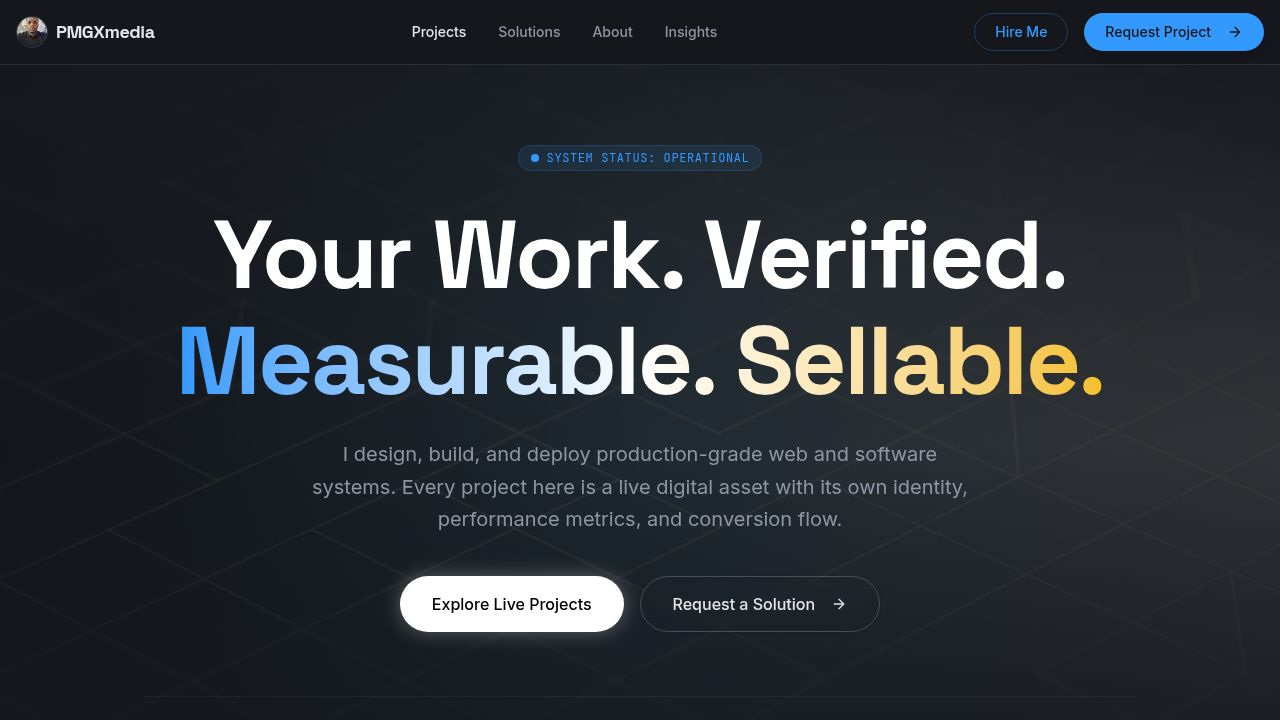
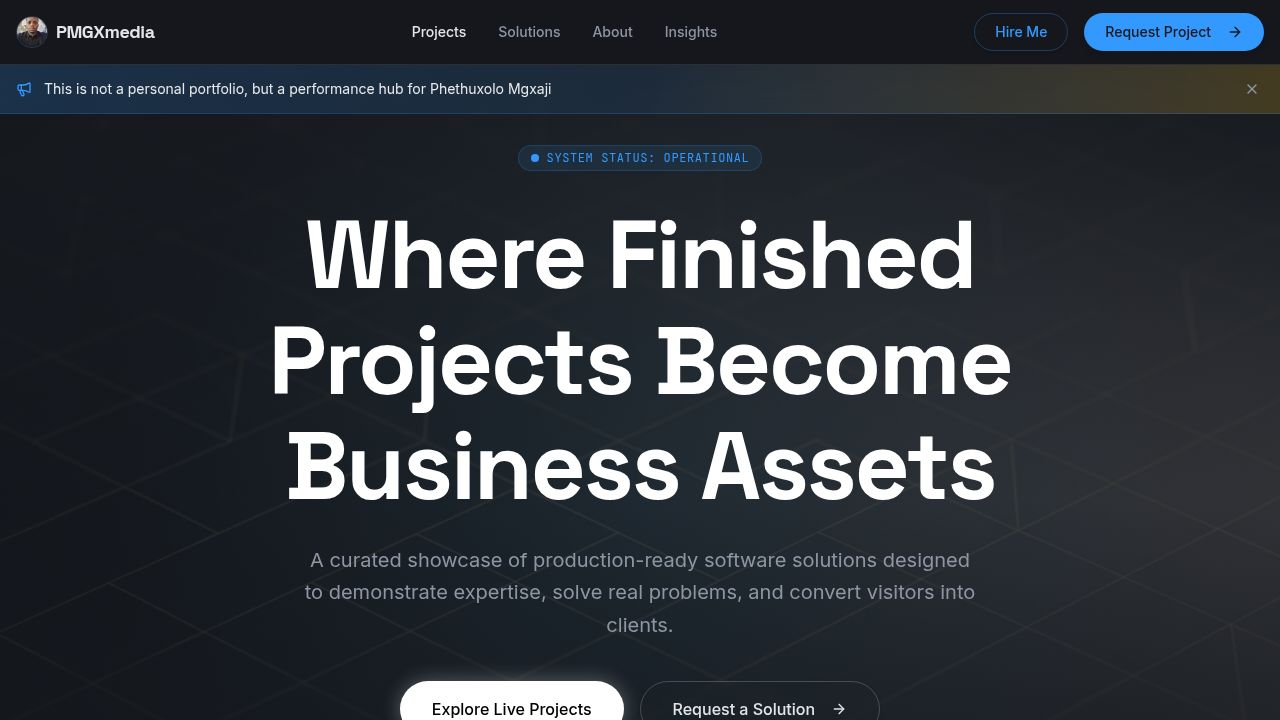
Update conversation form to include budget range dropdown options
Replaced the budget range text input in the "Start a Conversation" form with a Shadcn UI Select component, adding predefined budget options.

Replit-Commit-Author: Agent
Replit-Commit-Session-Id: 9bcb896f-848e-4a68-bd79-1ffe78db4126
Replit-Commit-Checkpoint-Type: full_checkpoint
Replit-Commit-Event-Id: 9bd22d89-4ec5-4b32-a1fb-7d378e767b86
Replit-Commit-Screenshot-Url: https://storage.googleapis.com/screenshot-production-us-central1/2b00f3fc-6c27-4a74-95f1-b62e422d0f55/9bcb896f-848e-4a68-bd79-1ffe78db4126/E0tJFU8
Replit-Helium-Checkpoint-Created: true

diff --git a/client/src/pages/home.tsx b/client/src/pages/home.tsx
@@ -14,6 +14,7 @@ import { Label } from "@/components/ui/label";
 import { Textarea } from "@/components/ui/textarea";
 import { Badge } from "@/components/ui/badge";
 import { Tabs, TabsContent, TabsList, TabsTrigger } from "@/components/ui/tabs";
+import { Select, SelectContent, SelectItem, SelectTrigger, SelectValue } from "@/components/ui/select";
 
 export default function Home() {
   const [conversationDialogOpen, setConversationDialogOpen] = useState(false);
@@ -294,7 +295,20 @@ export default function Home() {
                 </div>
                 <div className="space-y-2">
                   <Label htmlFor="conv-budget">Budget Range</Label>
-                  <Input id="conv-budget" name="budget" placeholder="$10k - $50k" data-testid="input-conv-budget" />
+                  <Select name="budget">
+                    <SelectTrigger data-testid="select-conv-budget">
+                      <SelectValue placeholder="Select budget range" />
+                    </SelectTrigger>
+                    <SelectContent>
+                      <SelectItem value="under-5k">Under $5,000</SelectItem>
+                      <SelectItem value="5k-10k">$5,000 - $10,000</SelectItem>
+                      <SelectItem value="10k-25k">$10,000 - $25,000</SelectItem>
+                      <SelectItem value="25k-50k">$25,000 - $50,000</SelectItem>
+                      <SelectItem value="50k-100k">$50,000 - $100,000</SelectItem>
+                      <SelectItem value="100k-plus">$100,000+</SelectItem>
+                      <SelectItem value="not-sure">Not sure yet</SelectItem>
+                    </SelectContent>
+                  </Select>
                 </div>
               </div>
               <div className="space-y-2">
